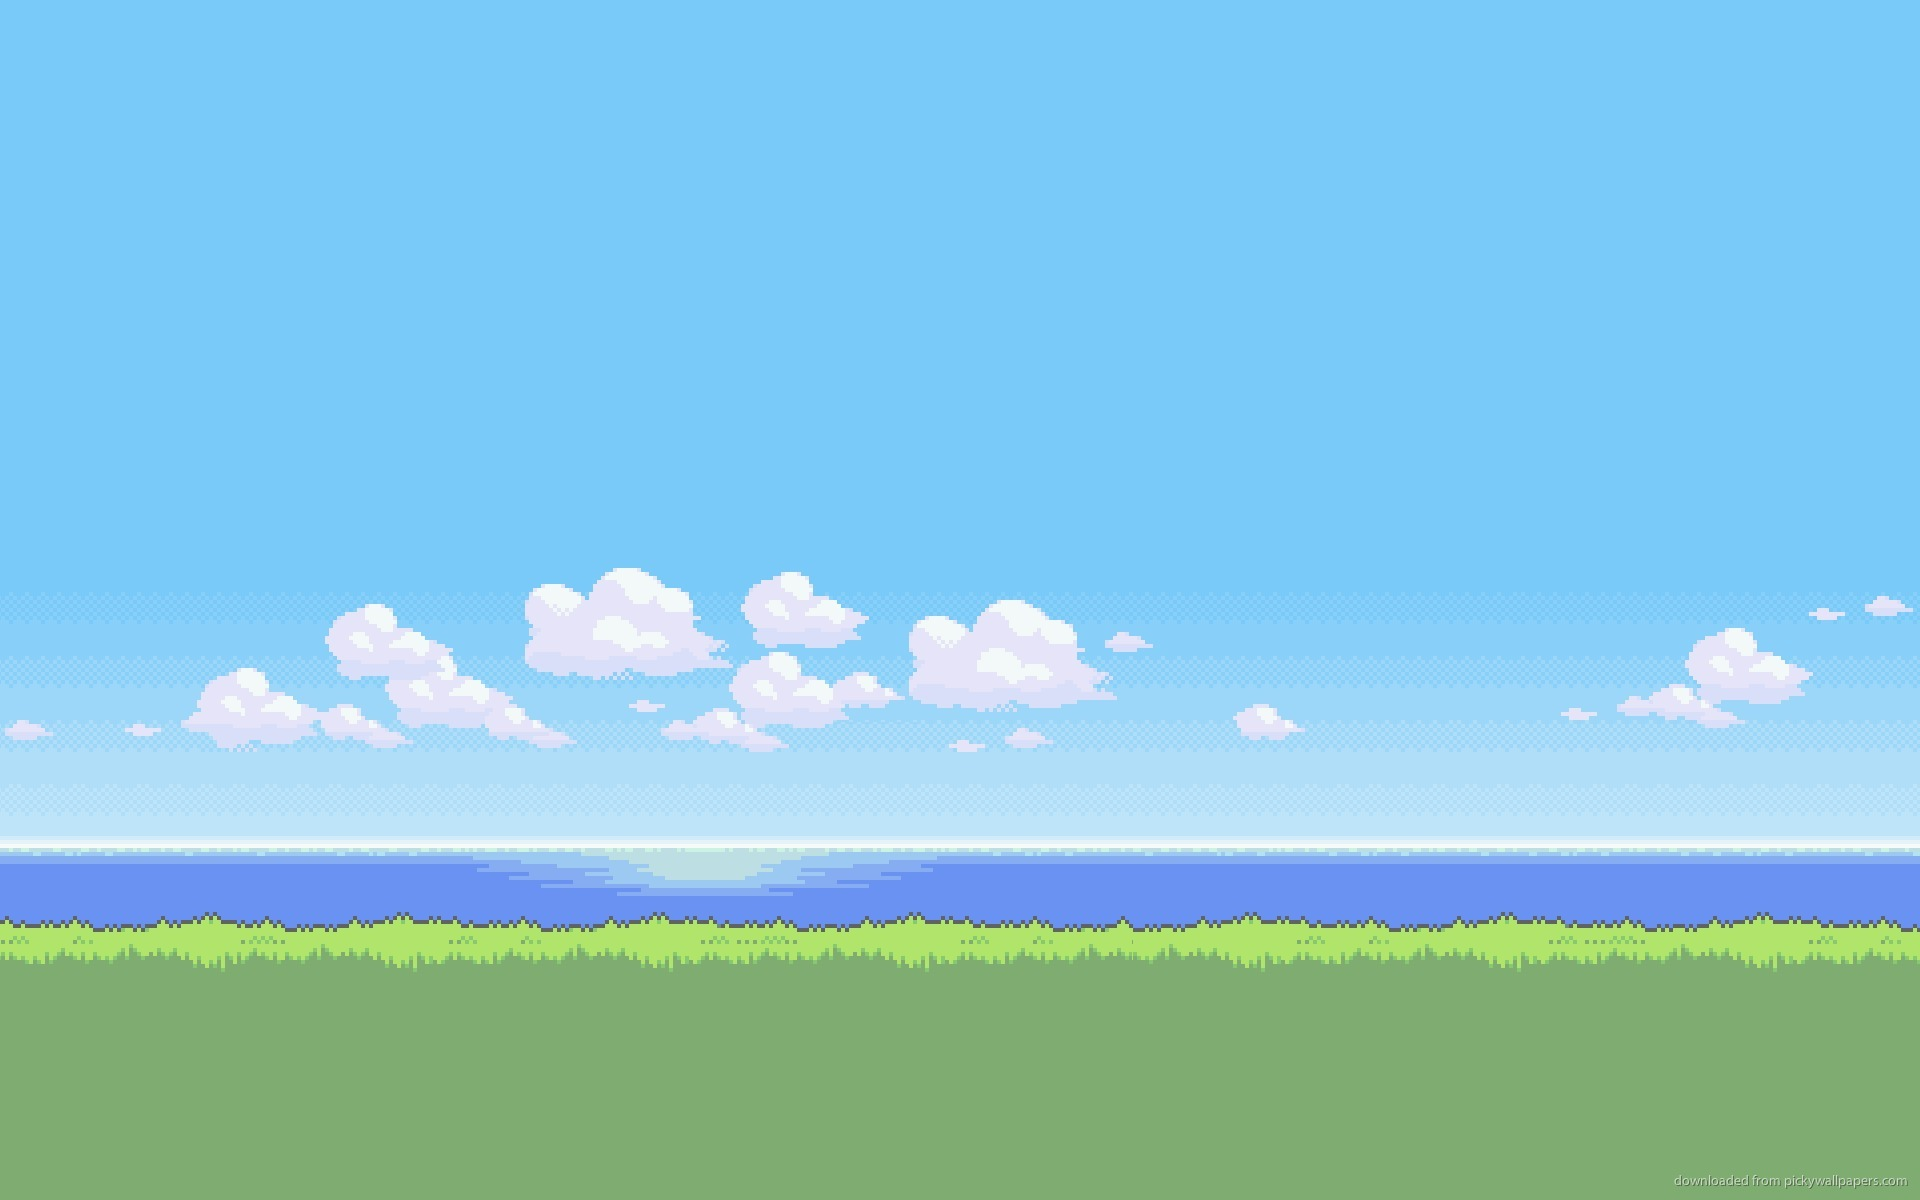
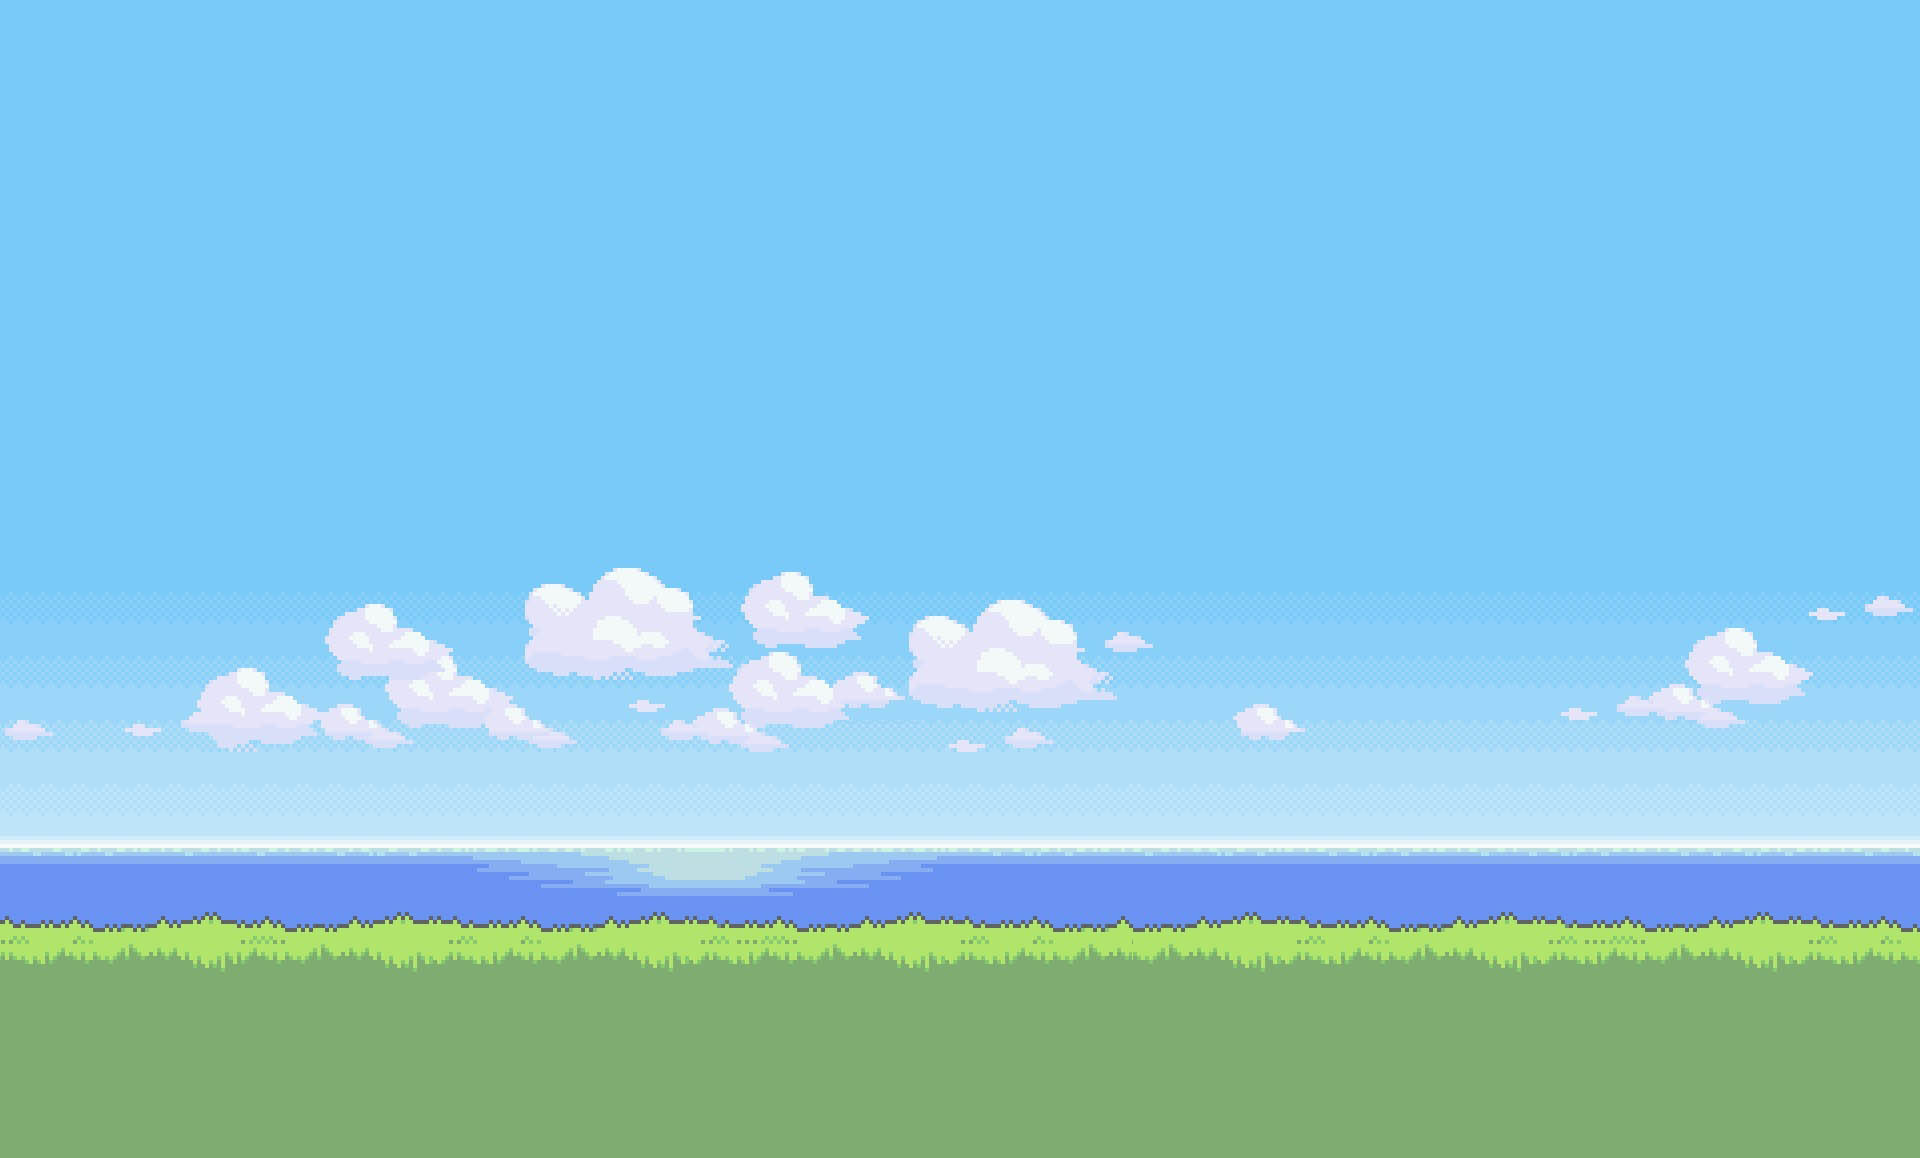
problem background fixed

diff --git a/css/main.css b/css/main.css
@@ -21,11 +21,11 @@ h1 {
     display: flex;
     justify-content: center;
     margin: 0 auto;
-    margin-top: 6vh;
+    margin-top: 5vh;
     width: 80vw;
-    height: 85vh;
+    height: 90vh;
     background-image: url("pixel\ landscape.jpg");
-    background-size: cover;
+    background-size: contain;
  
     position: relative;
     overflow: hidden;
